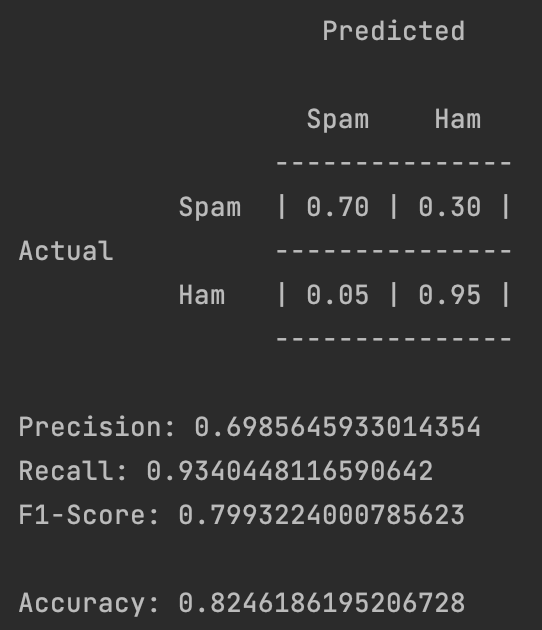
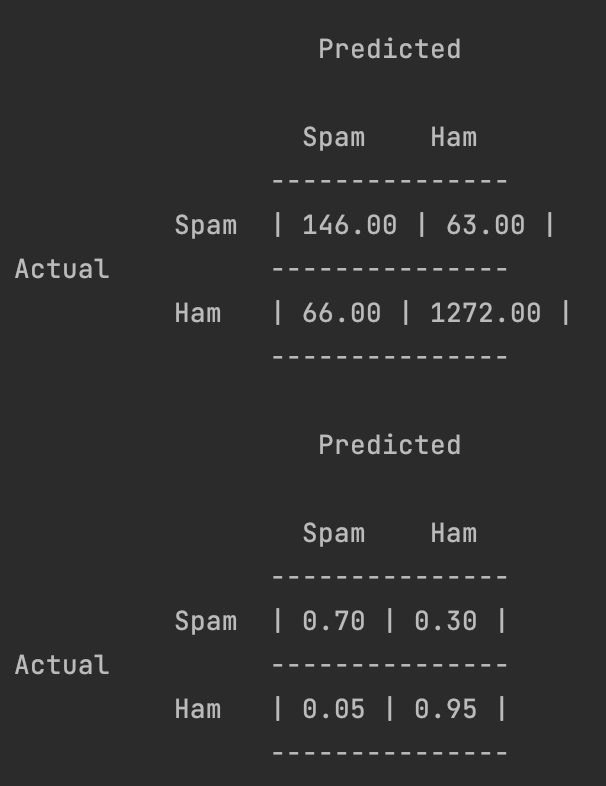
:memo: update documentation

diff --git a/README.md b/README.md
@@ -9,17 +9,23 @@ Multiplikation der Wahrscheinlichkeiten aller Wörter wird die Wahrscheinlichkei
 
 ## Kalibrierung
 
-Der Threshold von 0.5 hat sich bei allen Experimenten bewährt.
+Ein Threshold von 0.5 hat sich bei allen Experimenten als gut erwiesen.
 
-Als optimalen Wert für &alpha; hat sich der Wert 0.01 herausgestellt. Dieser Wert liefert den besten trade-off zwischen
-korrekter Klassifizierung von Spam-Emails und möglichst tiefer Fehlklassifizierung von Ham-Emails.
+Nach einigen Experimenten mit dem Wert &alpha; hat sich herausgestellt, dass Werte kleiner als &alpha; = 0.01 bereits
+gute Resultate liefern.
 
-| &alpha; = 0.1             | &alpha; = 0.01 | &alpha; = 0.001 | 
-| --- | --- | --- |
-| ![](docs/alpha_1E-1.png)  | ![](docs/alpha_1E-2.png) | ![](docs/alpha_1E-3.png) |
+Wir haben uns jedoch bewusst gegen den Wert 0.01 entschieden da es uns sehr wichtig war so wenige Ham-Emails als Spam zu
+markieren als nur möglich.
+Da man ab Werten kleiner als &alpha; = 1E-8 vor allem an korrekten Spam-Klassifizierungen verliert, haben wir uns für
+diesen Wert
+entschieden.
+
+| &alpha; = 1           | &alpha; = 1E-2           | &alpha; = 1E-4           | &alpha; = 1E-8           | &alpha; = 1E-12           | &alpha; = 1E-16           |
+|-----------------------|--------------------------|--------------------------|--------------------------|---------------------------|---------------------------|
+| ![](docs/alpha_1.png) | ![](docs/alpha_1E-2.png) | ![](docs/alpha_1E-4.png) | ![](docs/alpha_1E-8.png) | ![](docs/alpha_1E-12.png) | ![](docs/alpha_1E-16.png) |
 
 ## Klassifizierung
 
-| Threshold | &alpha; | Confusion matrix |
-| --- | --- | --- |
-| 0.5 | 0.01 | ![](docs/classification.png) |
+| Threshold  | &alpha;     | Confusion matrix             |
+|------------|-------------|------------------------------|
+| 0.5        | 0.000000001 | ![](docs/classification.png) |
